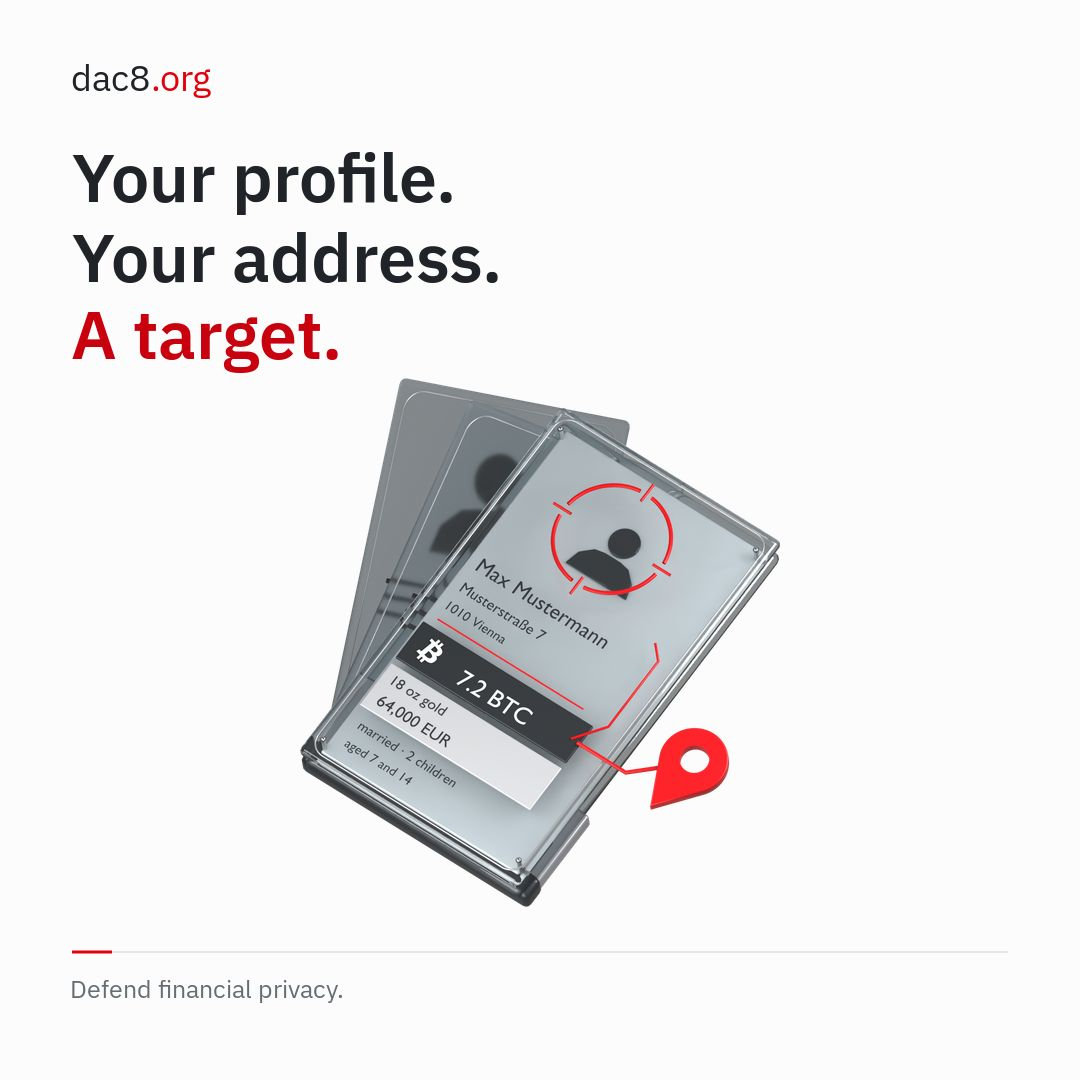
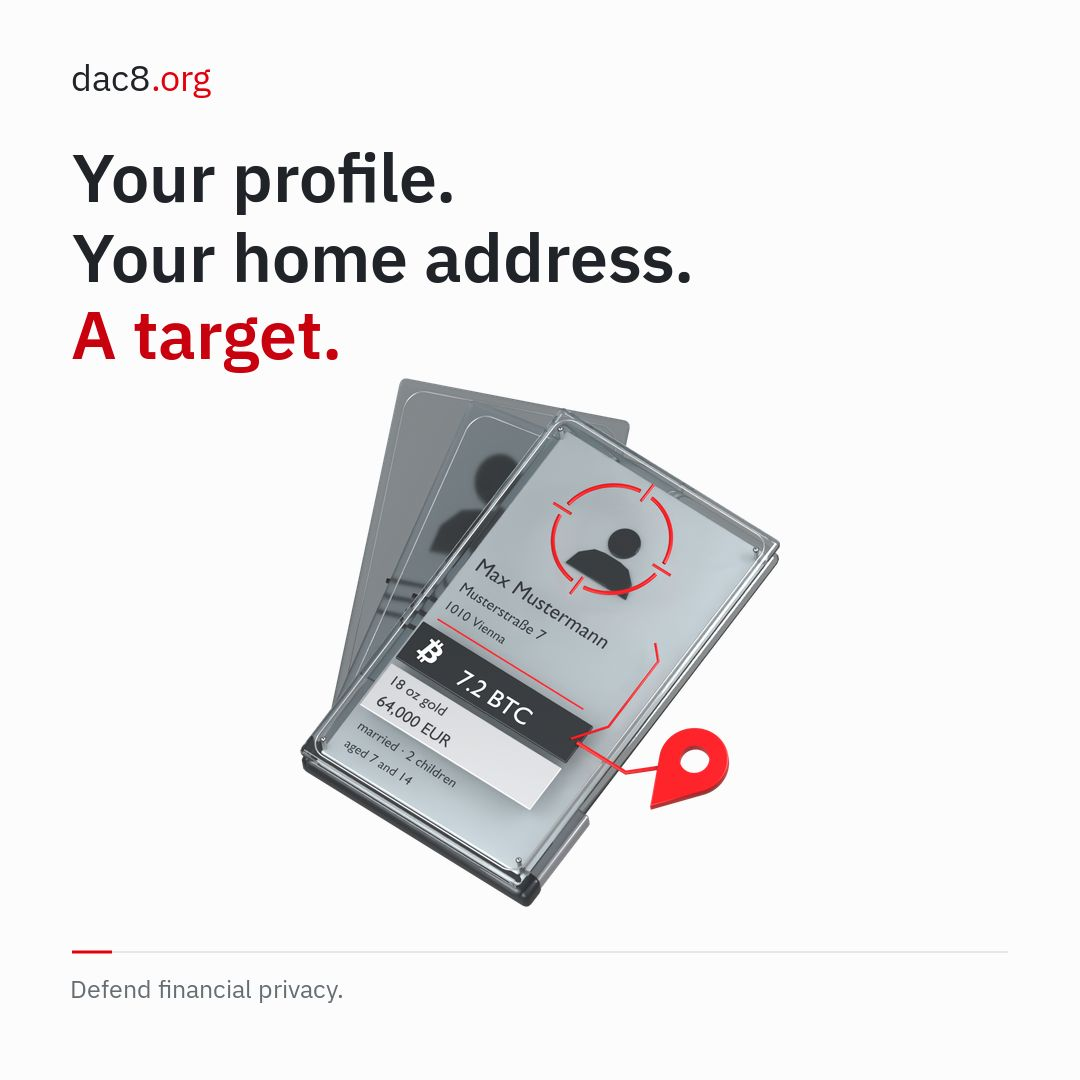
Say which address is meant: home or wallet
Readers could not tell whether "Adresse" meant where someone lives or a
blockchain address, which also fed the impression that addresses are
reported. Every bare mention now says Anschrift or Wohnadresse for the
home and Wallet-Adresse for the blockchain, in both languages, and the
target share graphic reads "Deine Wohnadresse". AGENTS.md records the
rule.

Changed region(s): [[0.2139, 0.2139, 0.6417, 0.275]]

diff --git a/src/data/artwork.ts b/src/data/artwork.ts
@@ -57,7 +57,7 @@ export const artwork = {
       alt: "Illustration: Eine Leiste mit der Aufschrift „100 %, alle Kunden, ohne Verdacht“ ist über rote Leitungen mit zehn Personenkarten verbunden. Darüber steckt eine Finanzakte von Max Mustermann mit Anschrift und Jahreswerten: Käufe 0,35 BTC, Transfers 0,18 BTC.",
     },
     en: {
-      alt: "Illustration: a bar labelled 100 %, all customers, without suspicion, is connected by red lines to ten personal record cards. Above it sits a financial record on Max Mustermann with his address and annual totals: purchases 0.35 BTC, transfers 0.18 BTC.",
+      alt: "Illustration: a bar labelled 100 %, all customers, without suspicion, is connected by red lines to ten personal record cards. Above it sits a financial record on Max Mustermann with his home address and annual totals: purchases 0.35 BTC, transfers 0.18 BTC.",
     },
   },
   reportAssets: {
@@ -66,7 +66,7 @@ export const artwork = {
       alt: "Illustration: Musterblatt einer Jahresmeldung 2026 für Max Mustermann mit Name, Anschrift, Steuerwohnsitz, maskierter Steuernummer, Geburtsdatum und Angaben zum meldenden Anbieter. Daneben je ein Blatt für Bitcoin, Ether und Litecoin mit Gesamtwert, Stückzahl und meist der Anzahl je Vorgangsart.",
     },
     en: {
-      alt: "Illustration: specimen of a 2026 annual report on Max Mustermann with name, address, tax residence, masked tax identification number, date of birth and the reporting provider’s details. Beside it, one sheet each for Bitcoin, Ether and Litecoin with total value, units and, for most categories, the count per transaction category.",
+      alt: "Illustration: specimen of a 2026 annual report on Max Mustermann with name, postal address, tax residence, masked tax identification number, date of birth and the reporting provider’s details. Beside it, one sheet each for Bitcoin, Ether and Litecoin with total value, units and, for most categories, the count per transaction category.",
     },
   },
   yearsOnFile: {
@@ -84,7 +84,7 @@ export const artwork = {
       alt: "Illustration: Aus einem gesprungenen Glasarchiv mit der Aufschrift Personendaten führt ein roter Pfeil zu einem Blatt „Datenleck, offengelegt“ mit Name, Wiener Anschrift, 7,2 BTC und Familienstand von Max Mustermann.",
     },
     en: {
-      alt: "Illustration: a red arrow leads from a cracked glass archive labelled personal data to a sheet marked data leak, exposed, with Max Mustermann’s name, Vienna address, 7.2 BTC and family status.",
+      alt: "Illustration: a red arrow leads from a cracked glass archive labelled personal data to a sheet marked data leak, exposed, with Max Mustermann’s name, Vienna home address, 7.2 BTC and family status.",
     },
   },
   rankedPortrait: {
@@ -93,7 +93,7 @@ export const artwork = {
       alt: "Illustration: Ein Schraubenschlüssel neben einer Zielliste für Wien mit verknüpften Vermögensdaten. Rot markiert ist Platz 07, Max Mustermann mit 7,2 BTC; darunter Anschrift, Familienstand und ein Porträtfoto.",
     },
     en: {
-      alt: "Illustration: a wrench beside a target list for Vienna with linked wealth data. Number 07, Max Mustermann with 7.2 BTC, is highlighted in red, with his address, family status and a portrait photo below.",
+      alt: "Illustration: a wrench beside a target list for Vienna with linked wealth data. Number 07, Max Mustermann with 7.2 BTC, is highlighted in red, with his home address, family status and a portrait photo below.",
     },
   },
   targetAtHome: {

diff --git a/src/data/arguments.ts b/src/data/arguments.ts
@@ -80,7 +80,7 @@ export const points: Record<Language, Record<PointId, Point>> = {
     },
     ownWallet: {
       title: "„Ich nutze nur meine eigene Wallet.“",
-      text: "Solange du nie über einen Anbieter kaufst oder verkaufst, meldet DAC8 dich nicht. Kaufst du bei einem Anbieter und überträgst auf deine Wallet, stehen Wert und Stückzahl dieser Übertragungen in der Regel in seiner Jahresmeldung. Die Adresse wird nicht gemeldet, bleibt nach den Geldwäschevorschriften aber beim Anbieter gespeichert.",
+      text: "Solange du nie über einen Anbieter kaufst oder verkaufst, meldet DAC8 dich nicht. Kaufst du bei einem Anbieter und überträgst auf deine Wallet, stehen Wert und Stückzahl dieser Übertragungen in der Regel in seiner Jahresmeldung. Die Wallet-Adresse wird nicht gemeldet, bleibt nach den Geldwäschevorschriften aber beim Anbieter gespeichert.",
     },
     purpose: {
       title: "Der Zweck wächst mit.",
@@ -124,7 +124,7 @@ export const points: Record<Language, Record<PointId, Point>> = {
     },
     ownWallet: {
       title: "“I only use my own wallet.”",
-      text: "As long as you never buy or sell through a provider, DAC8 does not report you. If you buy from a provider and transfer to your wallet, the value and units of those transfers usually appear in its annual report. The address is not reported, but it stays stored with the provider under anti-money-laundering rules.",
+      text: "As long as you never buy or sell through a provider, DAC8 does not report you. If you buy from a provider and transfer to your wallet, the value and units of those transfers usually appear in its annual report. The wallet address is not reported, but it stays stored with the provider under anti-money-laundering rules.",
     },
     purpose: {
       title: "The purpose keeps expanding.",

diff --git a/src/data/file.ts b/src/data/file.ts
@@ -131,7 +131,7 @@ export const labels = {
       transfer: { title: "Übertragung", note: "Ausgang von deinem Konto" },
       unhosted: {
         title: "Davon an Wallets ohne bekannten Anbieter",
-        note: "nur die Summe, keine Adressen; meist deine eigene Wallet",
+        note: "nur die Summe, keine Wallet-Adressen; meist deine eigene Wallet",
       },
     },
   },
@@ -167,7 +167,7 @@ export const labels = {
       transfer: { title: "Transfers", note: "out of your account" },
       unhosted: {
         title: "Of which to wallets with no known provider",
-        note: "the total only, no addresses; usually your own wallet",
+        note: "the total only, no wallet addresses; usually your own wallet",
       },
     },
   },

diff --git a/src/data/share.ts b/src/data/share.ts
@@ -49,8 +49,8 @@ export const shareScenes: {
   {
     id: "scene-10-target",
     title: {
-      de: "Dein Profil. Deine Adresse. Ein Angriffsziel.",
-      en: "Your profile. Your address. A target.",
+      de: "Dein Profil. Deine Wohnadresse. Ein Angriffsziel.",
+      en: "Your profile. Your home address. A target.",
     },
     text: {
       de: "Eine US-Bande hackte Datenbanken, suchte vermeintlich reiche Krypto-Besitzer heraus und brach bei ihnen ein. Beute insgesamt: über 250 Millionen Dollar.",

diff --git a/AGENTS.md b/AGENTS.md
@@ -48,6 +48,9 @@ to new copy, graphics and tools, not only to the pages they were found on.
   Do not write that DAC8 "links" ID, wallet addresses or transactions with
   tax data; the provider adds tax number and tax residence next to the
   records it already keeps under anti-money-laundering rules.
+- Never write a bare "Adresse" or "address": readers cannot tell a home from
+  a wallet. Use Anschrift or Wohnadresse (postal or home address) for where
+  someone lives, and Wallet-Adresse (wallet address) for the blockchain.
 - Do not end points or sections with "read more" cross-references. A section
   gets at most one link to the obvious next step; the navigation and footer
   carry the rest, including the sources.
